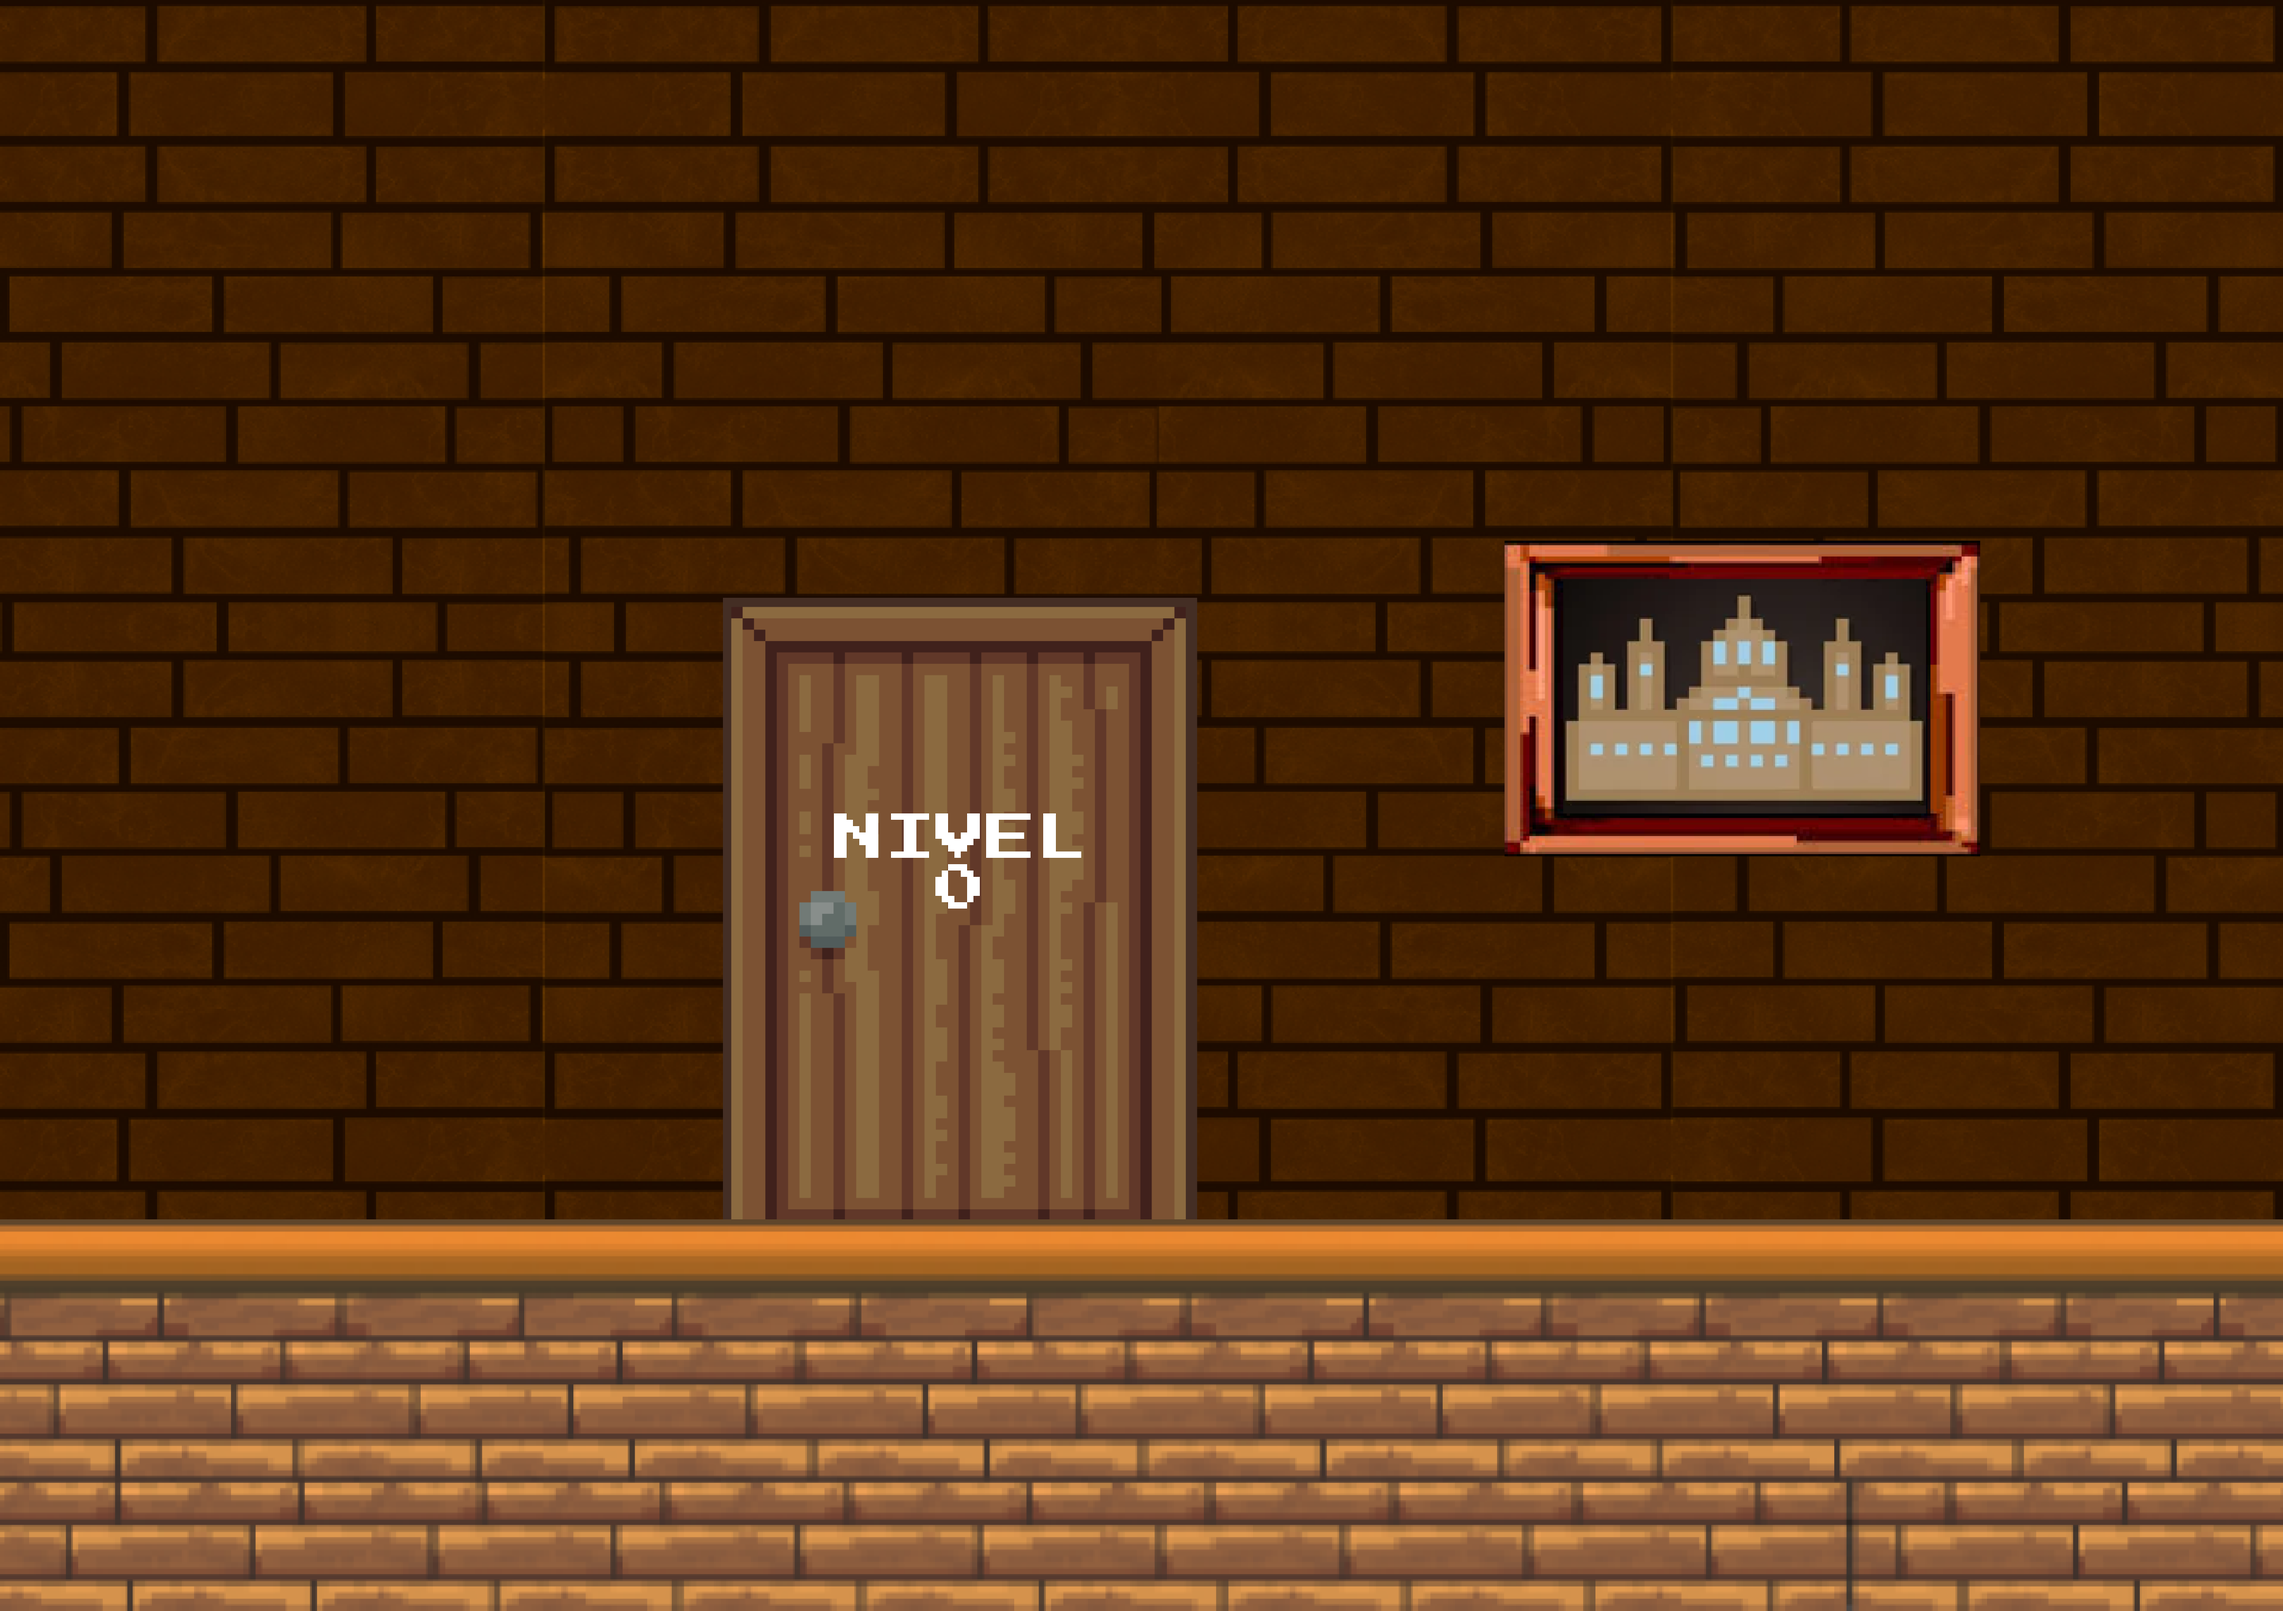
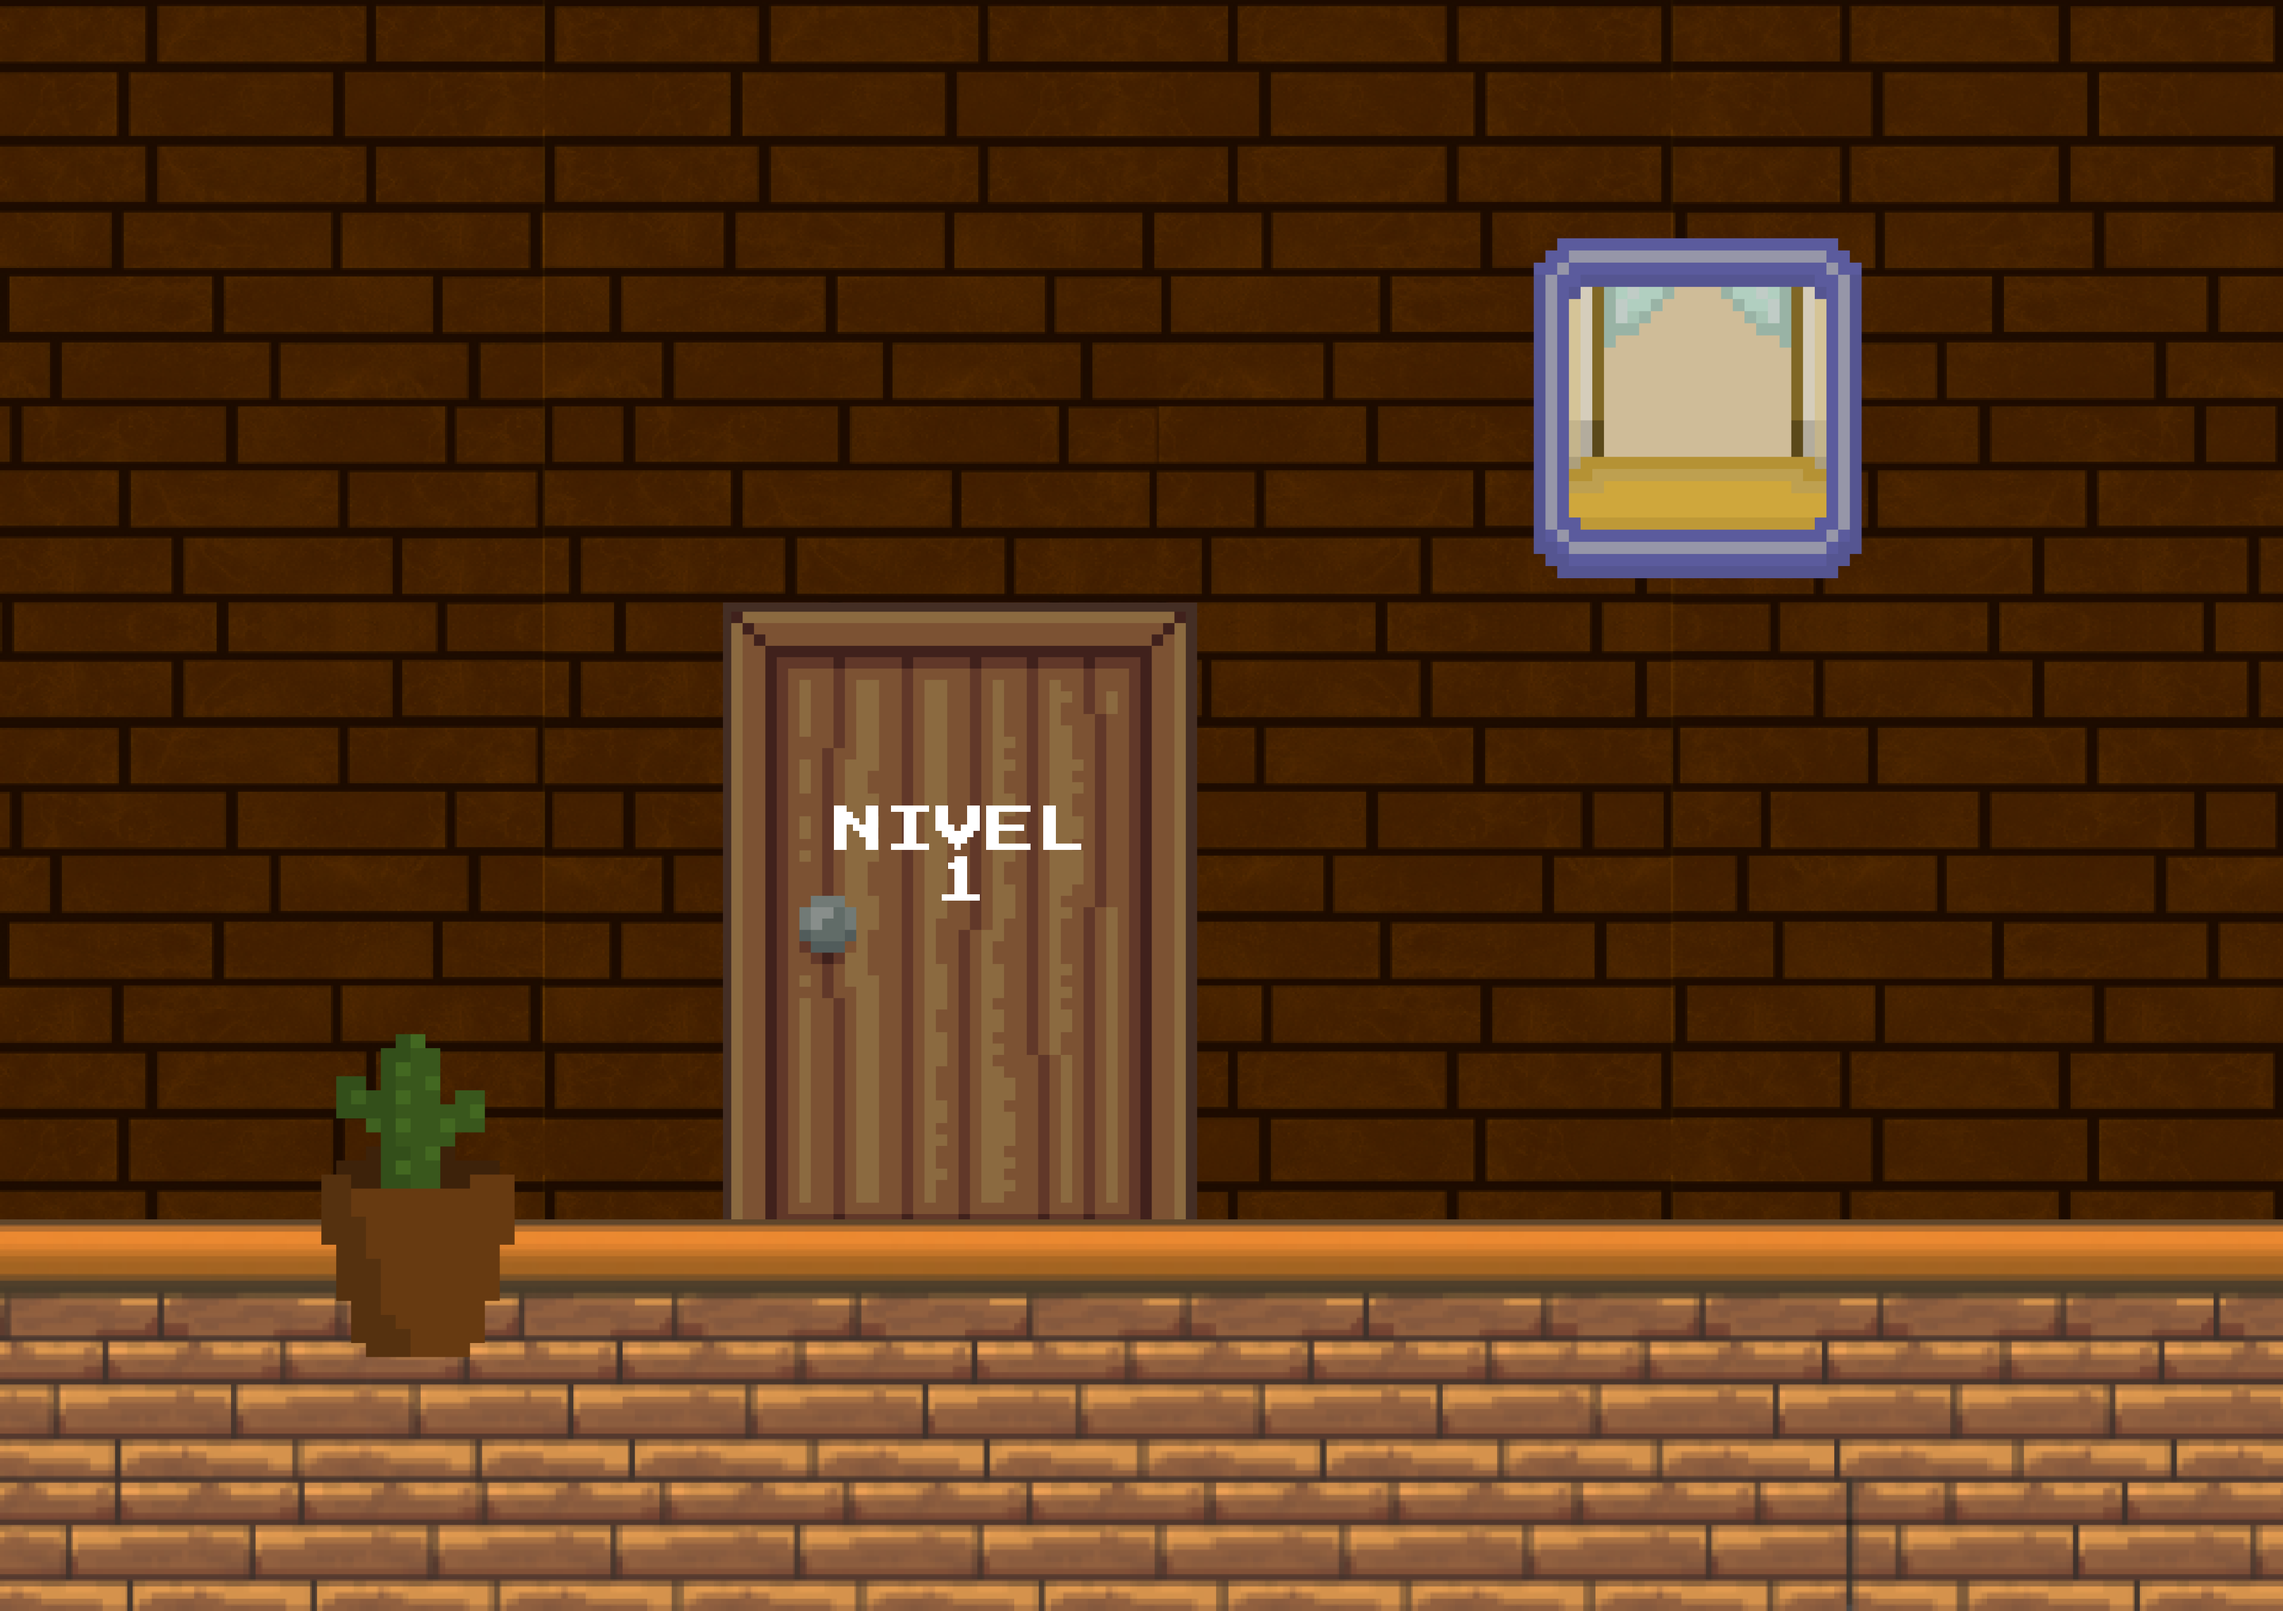
Add extra levels to map

diff --git a/public/levels/map/index.html b/public/levels/map/index.html
@@ -23,35 +23,89 @@
             <a href="../../game_mode/" class="btn-back"></a>
 
             <audio id="backgroundMusic" autoplay loop>
-                <source src="../../assets/sonido/sounds/dark-drone-intrigue-suspence-horror-drone-245048.mp3" type="audio/mp3">
-            </audio> 
+                <source src="../../assets/sonido/sounds/dark-drone-intrigue-suspence-horror-drone-245048.mp3"
+                    type="audio/mp3">
+            </audio>
 
             <div class="marco"></div>
 
             <div class="scenarios" id="scenarios">
 
                 <div class="scenario" id="scenario1">
-                    <a href="../Level0" class="puerta"><p>NIVEL<br>0</p></a>
+                    <a href="../Level0" class="puerta">
+                        <p>NIVEL<br>0</p>
+                    </a>
                 </div>
                 <div class="scenario" id="scenario2">
-                    <a href="../Level1" class="puerta"><p>NIVEL<br>1</p></a>
+                    <a href="../Level1" class="puerta">
+                        <p>NIVEL<br>1</p>
+                    </a>
                 </div>
                 <div class="scenario" id="scenario3">
-                    <a href="../Level2" class="puerta"><p>NIVEL<br>2</p></a>
+                    <a href="../Level2" class="puerta">
+                        <p>NIVEL<br>2</p>
+                    </a>
                 </div>
                 <div class="scenario" id="scenario4">
-                    <a href="../Level3" class="puerta"><p>NIVEL<br>3</p></a>
+                    <a href="../Level3" class="puerta">
+                        <p>NIVEL<br>3</p>
+                    </a>
                 </div>
                 <div class="scenario" id="scenario5">
-                    <a href="../Level4" class="puerta"><p>NIVEL<br>4</p></a>
+                    <a href="../Level4" class="puerta">
+                        <p>NIVEL<br>4</p>
+                    </a>
                 </div>
                 <div class="scenario" id="scenario6">
-                    <a href="../Level5" class="puerta"><p>NIVEL<br>5</p></a>
+                    <a href="../Level5" class="puerta">
+                        <p>NIVEL<br>5</p>
+                    </a>
                 </div>
                 <div class="scenario" id="scenario7">
-                    <a href="../Level6" class="puerta"><p>NIVEL<br>6</p></a>
+                    <a href="../Level6" class="puerta">
+                        <p>NIVEL<br>6</p>
+                    </a>
                 </div>
-
+                <div class="scenario" id="scenario8">
+                    <a href="../Level7" class="puerta">
+                        <p>NIVEL<br>7</p>
+                    </a>
+                </div>
+                <div class="scenario" id="scenario9">
+                    <a href="../Level8" class="puerta">
+                        <p>NIVEL<br>8</p>
+                    </a>
+                </div>
+                <div class="scenario" id="scenario10">
+                    <a href="../Level9" class="puerta">
+                        <p>NIVEL<br>9</p>
+                    </a>
+                </div>
+                <div class="scenario" id="scenario11">
+                    <a href="../Level10" class="puerta">
+                        <p>NIVEL<br>10</p>
+                    </a>
+                </div>
+                <div class="scenario" id="scenario12">
+                    <a href="../Level11" class="puerta">
+                        <p>NIVEL<br>11</p>
+                    </a>
+                </div>
+                <div class="scenario" id="scenario13">
+                    <a href="../Level12" class="puerta">
+                        <p>NIVEL<br>12</p>
+                    </a>
+                </div>
+                <div class="scenario" id="scenario14">
+                    <a href="../Level13" class="puerta">
+                        <p>NIVEL<br>13</p>
+                    </a>
+                </div>
+                <div class="scenario" id="scenario15">
+                    <a href="../Level13" class="puerta">
+                        <p>NIVEL<br>14</p>
+                    </a>
+                </div>
                 <div id="character" class="character"></div>
             </div>
 

diff --git a/public/levels/map/css/style.css b/public/levels/map/css/style.css
@@ -68,37 +68,77 @@ body {
 }
 
 .scenario:nth-child(1) {
-    background-image: url('../images/MAP1.png');
+    background-image: url('../images/MAP0.png');
 }
 
 .scenario:nth-child(2) {
     left: 100%;
-    background-image: url('../images/MAP2.png');
+    background-image: url('../images/MAP1.png');
 }
 
 .scenario:nth-child(3) {
     left: 200%;
-    background-image: url('../images/MAP3.png');
+    background-image: url('../images/MAP2.png');
 }
 
 .scenario:nth-child(4) {
     left: 300%;
-    background-image: url('../images/MAP4.png');
+    background-image: url('../images/MAP3.png');
 }
 
 .scenario:nth-child(5) {
     left: 400%;
-    background-image: url('../images/MAP5.png');
+    background-image: url('../images/MAP4.png');
 }
 
 .scenario:nth-child(6) {
     left: 500%;
-    background-image: url('../images/MAP6.png');
+    background-image: url('../images/MAP5.png');
 }
 
 .scenario:nth-child(7) {
     left: 600%;
+    background-image: url('../images/MAP6.png');
+}
+
+.scenario:nth-child(8) {
+    left: 700%;
     background-image: url('../images/MAP7.png');
+}
+
+.scenario:nth-child(9) {
+    left: 800%;
+    background-image: url('../images/MAP8.png');
+}
+
+.scenario:nth-child(10) {
+    left: 900%;
+    background-image: url('../images/MAP9.png');
+}
+
+.scenario:nth-child(11) {
+    left: 1000%;
+    background-image: url('../images/MAP10.png');
+}
+
+.scenario:nth-child(12) {
+    left: 1100%;
+    background-image: url('../images/MAP11.png');
+}
+
+.scenario:nth-child(13) {
+    left: 1200%;
+    background-image: url('../images/MAP12.png');
+}
+
+.scenario:nth-child(14) {
+    left: 1300%;
+    background-image: url('../images/MAP13.png');
+}
+
+.scenario:nth-child(15) {
+    left: 1400%;
+    background-image: url('../images/MAP14.png');
 }
 
 .marco {
@@ -136,7 +176,7 @@ body {
     text-decoration: none;
 }
 
-.puerta > p {
+.puerta>p {
     font-size: 5dvh;
 
     font-family: 'Pixeloid Sans Bold';

diff --git a/public/levels/assets/js/character.js b/public/levels/assets/js/character.js
@@ -9,16 +9,16 @@ export default class Character {
         this.posY = 0
         this.velocityX = 0
         this.velocityY = 0
-        this.speed = 10
+        this.speed = 60
         
         // Física mejorada
         this.gravity = 0.5
         this.jumpForce = 7.5
         this.isJumping = false
-        this.friction = 0.8 // Coeficiente de fricción en el eje X
+        this.friction = 10 // Coeficiente de fricción en el eje X
         this.airFriction = 1 // Coeficiente de fricción en el aire en el eje X
         this.acceleration = 1.5 // Aceleración en el eje X
-        this.maxSpeed = 10 // Velocidad máxima en eje X
+        this.maxSpeed = 50 // Velocidad máxima en eje X
         
         // Animación
         this.frame = 0

diff --git a/server/server.php b/server/server.php
@@ -48,14 +48,14 @@ class MultiplayerServer implements MessageComponentInterface
         $conn->id = (int)$queryParams['id'];
 
         // Verificar si hay una conexión persistente para este ID
-        $this->checkAndRestorePersistentConnection($conn);
+        $this->checkAndRestorePersistentConnection($conn, $queryParams);
 
         $this->initializeConnection($conn);
         $this->logConnectionStatus($conn);
 
     }
 
-    private function checkAndRestorePersistentConnection(ConnectionInterface $conn): void
+    private function checkAndRestorePersistentConnection(ConnectionInterface $conn, array $params): void
     {
         if (isset($this->persistentConnections[$conn->id])) {
 
@@ -71,7 +71,11 @@ class MultiplayerServer implements MessageComponentInterface
 
             // Opcional: Eliminar la entrada persistente si ya no es necesaria
             unset($this->persistentConnections[$conn->id]);
+        } else{
+            $conn->code = $params['code'] ?? null;
         }
+
+
     }
 
     private function initializeConnection(ConnectionInterface $conn): void
@@ -454,12 +458,12 @@ class MultiplayerServer implements MessageComponentInterface
         $conn->play = false;
         $this->rooms[$conn->code]['players']->detach($conn);
         $this->onClose($conn);
-//        $conn->close();
     }
 
     private
     function logDisconnection(ConnectionInterface $conn): void
     {
+        echo "Number players ({$this->clients->count()})\n";
         echo "Exit ({$conn->nickname})\n\n";
     }
 
